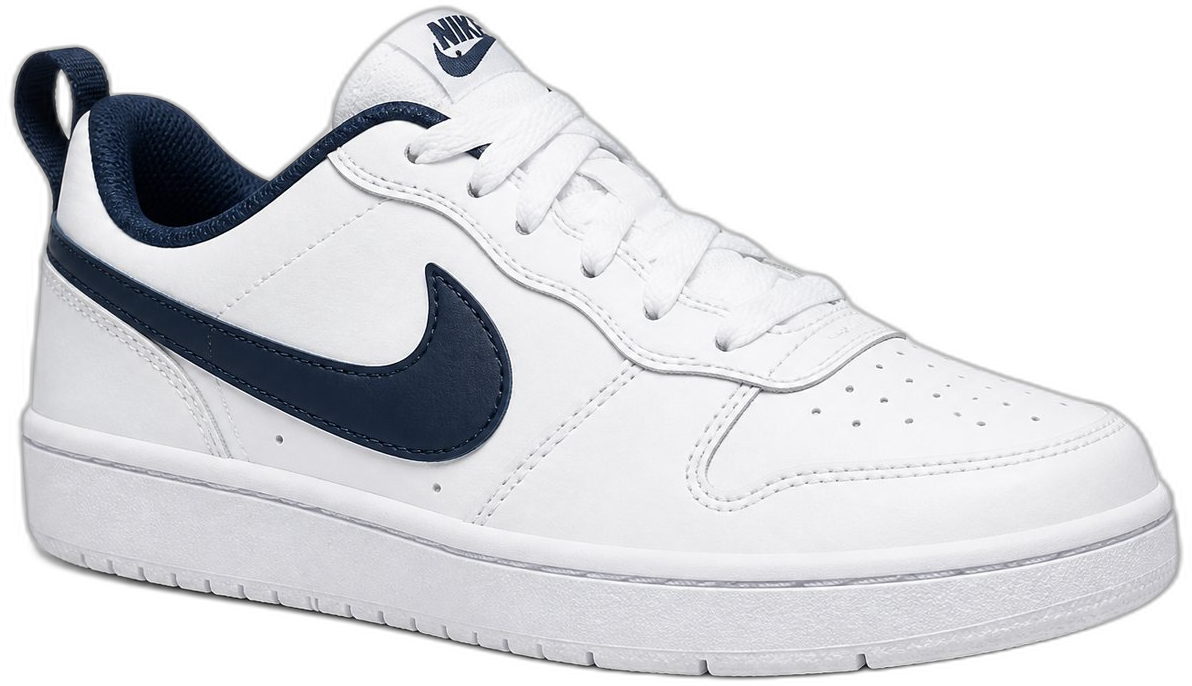
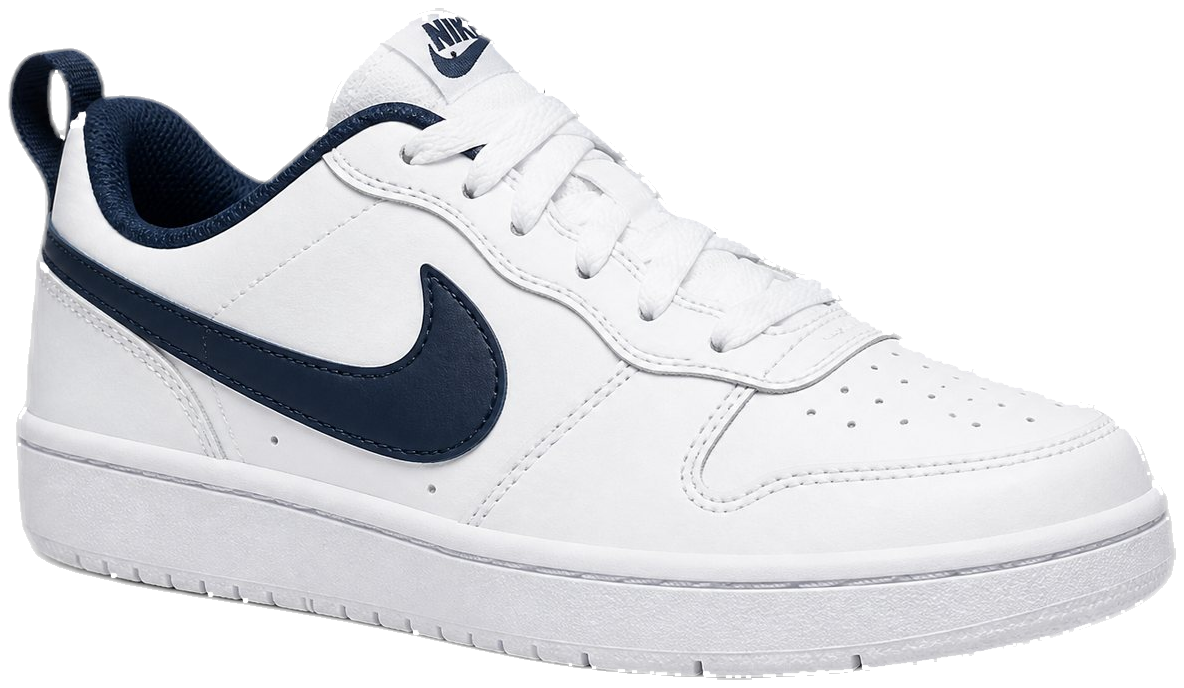
Fix shoe cutouts: strip white fringe and force PNG deploy
Live was still serving old JPG backdrops. Reclean transparent PNGs,
point the app at them with cache-busting, and push cutout assets again.

diff --git a/redesigns/nike/index.html b/redesigns/nike/index.html
@@ -17,7 +17,7 @@
   <link rel="preconnect" href="https://fonts.googleapis.com">
   <link rel="preconnect" href="https://fonts.gstatic.com" crossorigin>
   <link href="https://fonts.googleapis.com/css2?family=Syne:wght@600;700;800&family=Manrope:wght@400;500;600;700&display=swap" rel="stylesheet">
-  <link rel="stylesheet" href="styles.css">
+  <link rel="stylesheet" href="styles.css?v=20260812-cutout3">
 </head>
 <body>
   <a class="skip" href="#stage">Skip to content</a>
@@ -117,6 +117,6 @@
     <p>Experiment by <a href="../../">Vulcet</a> · Kinetic Clarity · <a href="../">All redesigns</a></p>
   </footer>
 
-  <script src="app.js"></script>
+  <script src="app.js?v=20260812-cutout3"></script>
 </body>
 </html>
